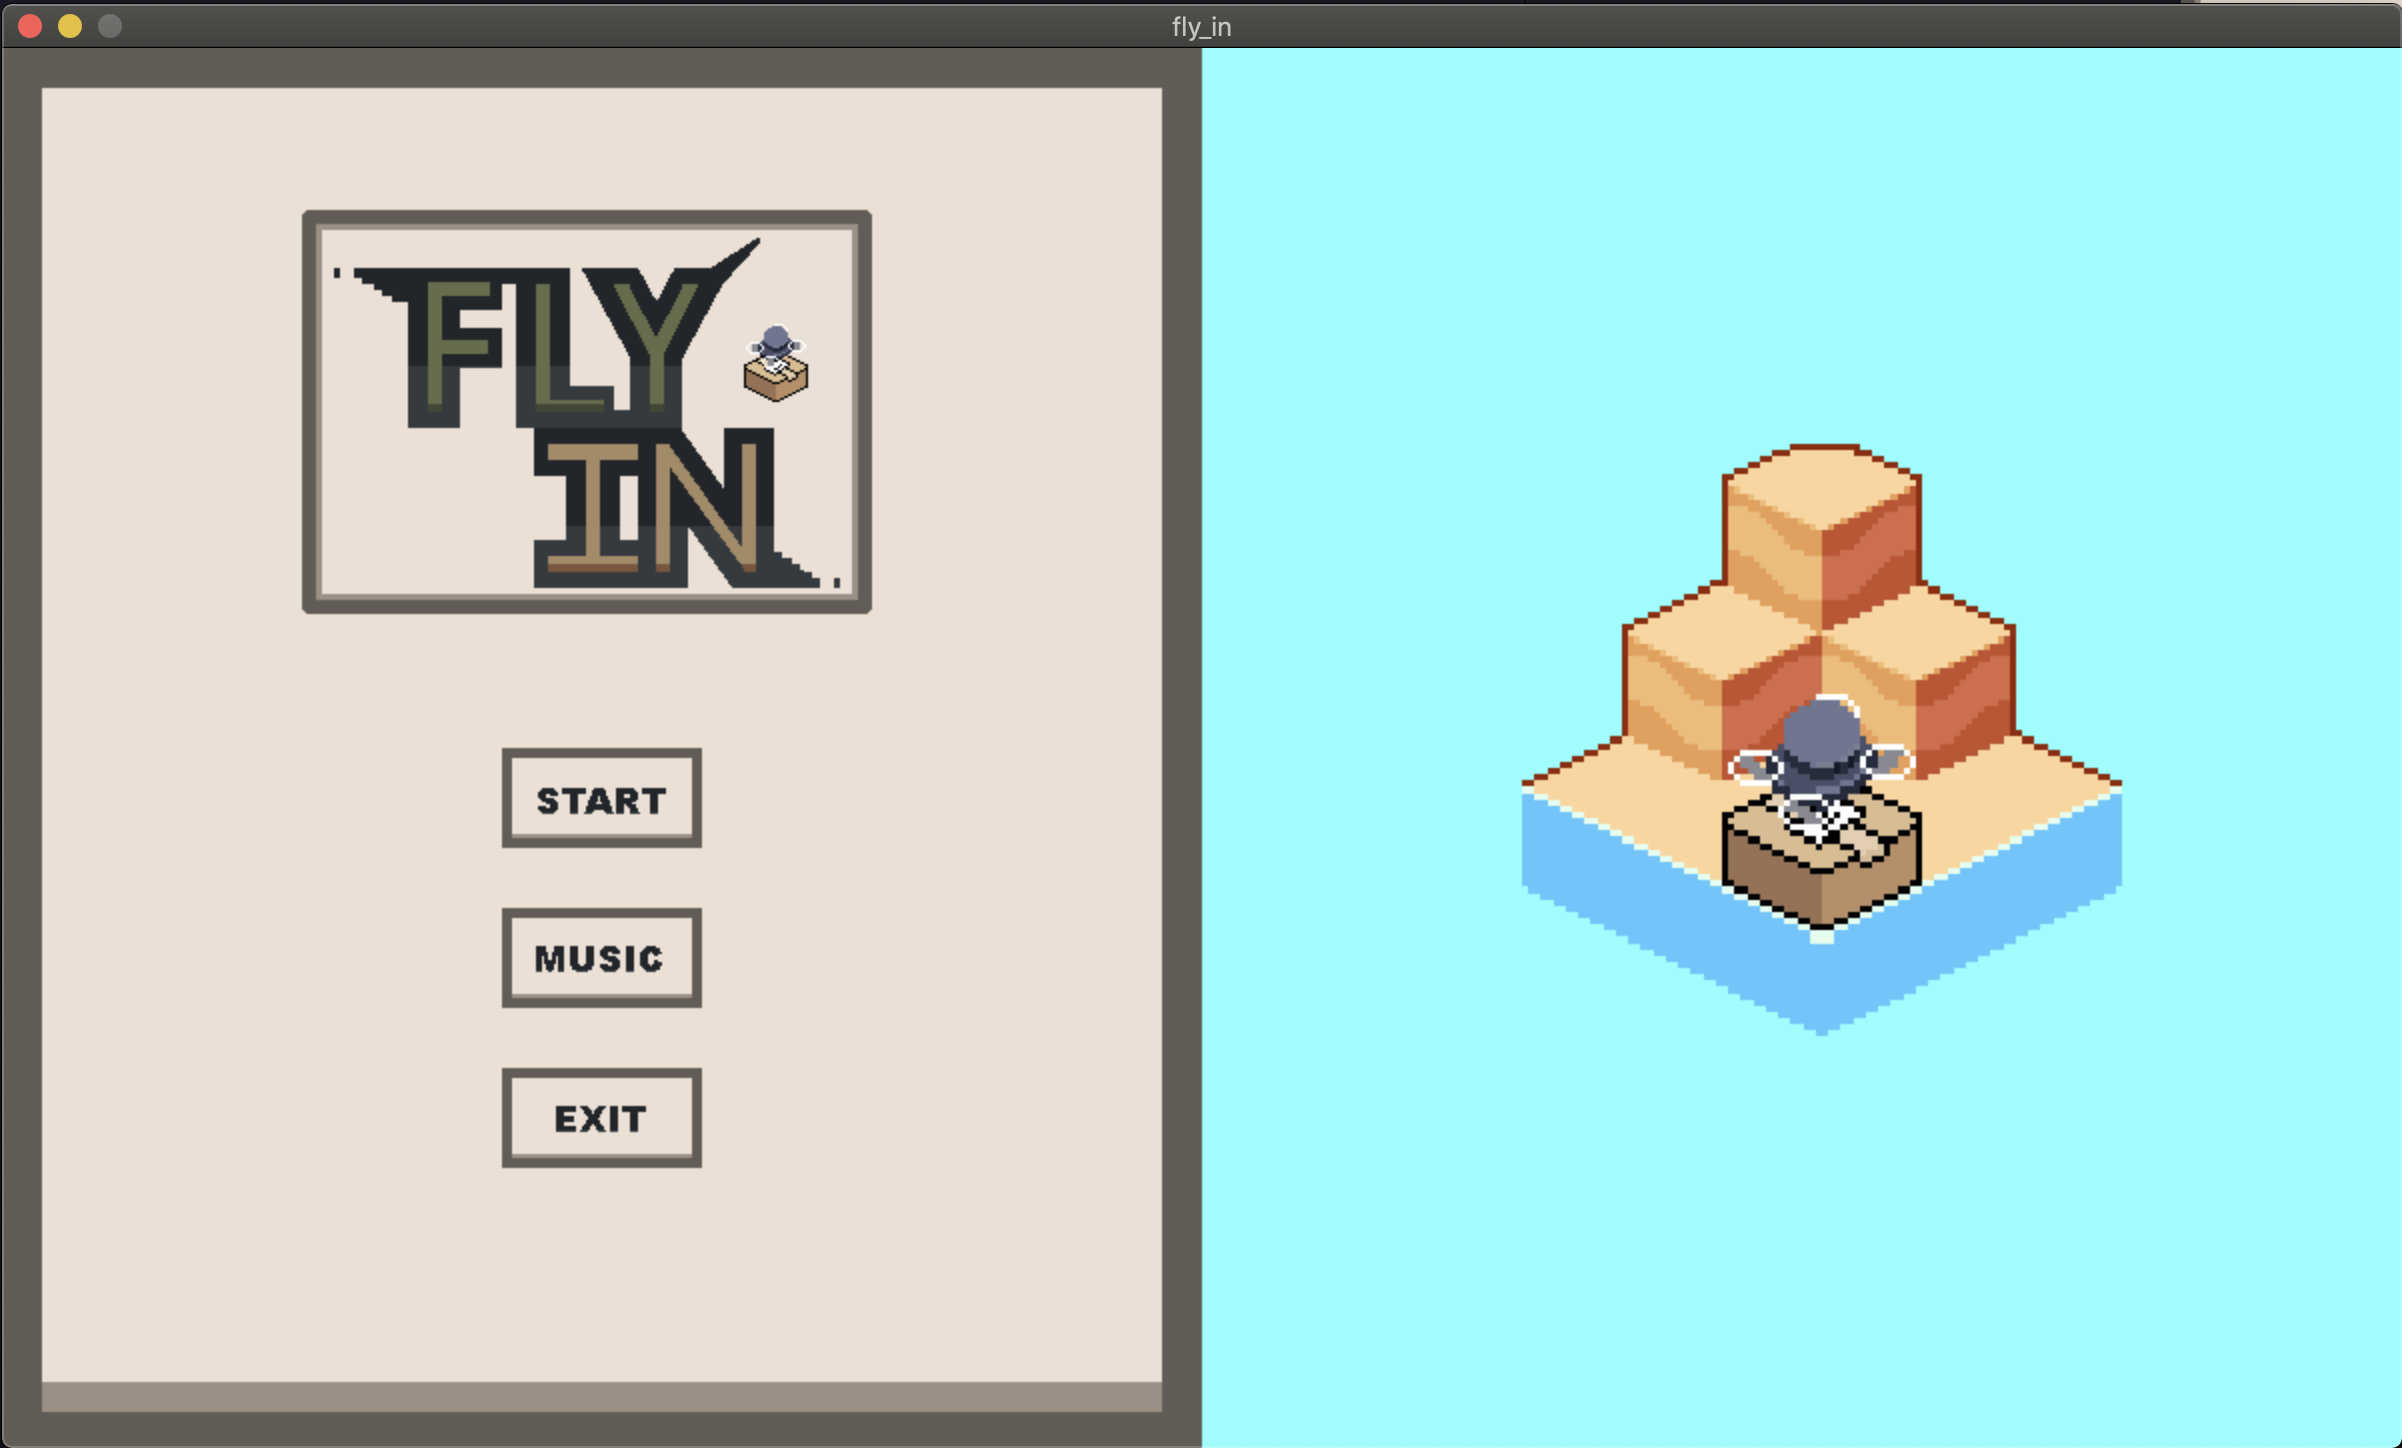
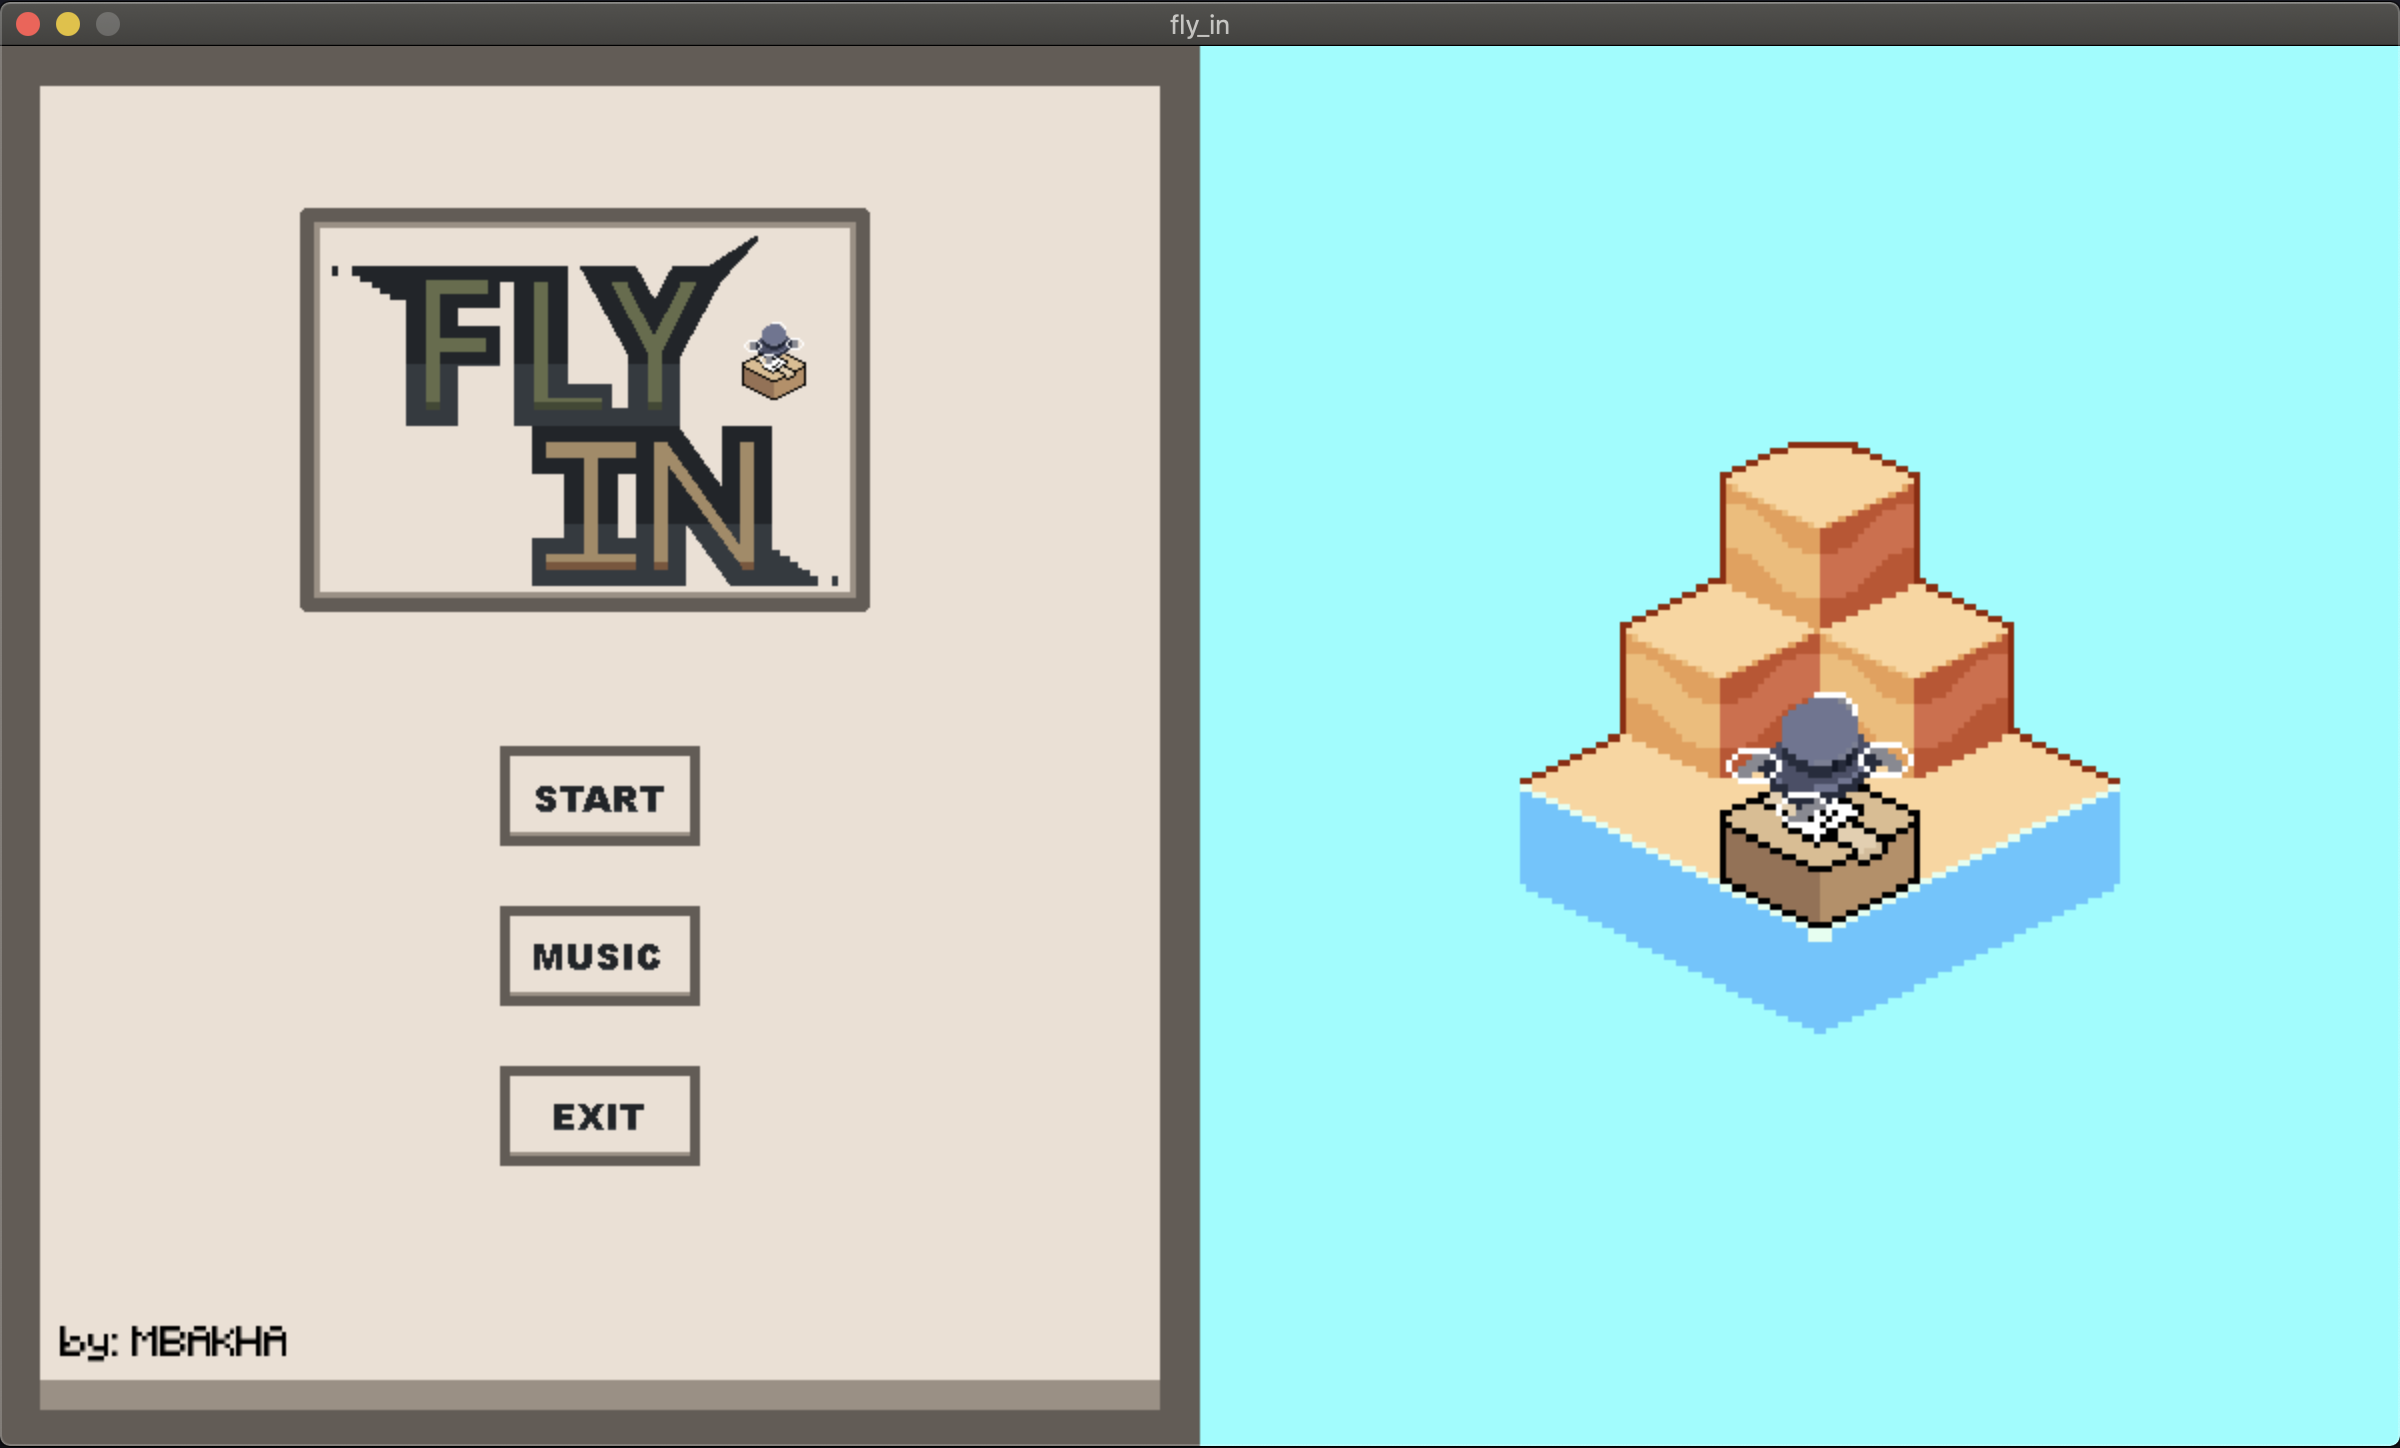
readme

diff --git a/Script/Visualization.py b/Script/Visualization.py
@@ -31,7 +31,7 @@ class Main_Menu:
     def __draw_text(text: str, size: int, color: str) -> pygame.Surface:
         font = pygame.font.Font("assets/font/Minecraft.ttf", size)
         r, g, b = rgb(color)
-        result = font.render(text, True, (r, g, b), (0, 0, 0, 0))
+        result = font.render(text, True, (r, g, b))
         return result
 
     def error(self, text: str) -> None:
@@ -66,6 +66,8 @@ class Main_Menu:
             self.start.blit(self.display)
             self.exit.blit(self.display)
             self.music.blit(self.display)
+            login = self.__draw_text("by: MBAKHA", 20, "black")
+            self.display.blit(login, (30, 640))
             image = self.drone.anim()
             image = pygame.transform.scale(image, (100, 100))
             self.display.blit(image, (860, 310))

diff --git a/README.md b/README.md
@@ -12,7 +12,13 @@
 
 <br>
 
+<div align="center">
+
 ## Table of Contents
+
+<br>
+
+<div align="left">
 
 - [Description](#description)
 - [Features](#features)
@@ -25,11 +31,14 @@
 
 <br>
 
----
-
+<div align="center">
 
 ## Description
+![description](https://media.tenor.com/_V8TTKAXYB0AAAAM/spongebob-squarepants-sunglasses.gif)
 
+<div align="left">
+
+<br>
 
 **fly-in** is an interactive drone traffic management and pathfinding visualization system. The project simulates complex logistics scenarios where multiple drones must navigate through interconnected hubs (nodes) with capacity constraints, restricted zones, and priority pathways. It combines graph-based pathfinding algorithms with real-time visualization to demonstrate efficient resource allocation and congestion management in constrained environments.
 
@@ -40,10 +49,18 @@ The core goal is to route drones from a start hub to a goal hub while respecting
 
 ---
 
+<div align="center">
+
 ## Features
 
+![features](https://media.tenor.com/y438NMTZ_F8AAAAM/awesome-feature-sh1n-boo.gif)
+
+<div align="left">
+
+<br>
+
 - **Visual Network Simulation**: Real-time pygame-based visualization of drone movement through a multi-hub network
-- **Intelligent Pathfinding**: A* and Dijkstra-inspired pathfinding with dynamic cost adjustments based on zone types and congestion
+- **Intelligent Pathfinding**: Dijkstra pathfinding with dynamic cost adjustments based on zone types and congestion
 - **Configuration-Driven Scenarios**: Define custom hub layout, drones numbers and connection between hubs
 - **Capacity Management**: Track and enforce capacity limits on both hubs and connections
 - **Zone-Based Routing**: Support for multiple zone types (normal, restricted, priority, blocked) with different traversal penalties
@@ -51,7 +68,15 @@ The core goal is to route drones from a start hub to a goal hub while respecting
 
 ---
 
+<div align="center">
+
 ## Instructions
+
+![instructions](https://media.tenor.com/OTDgkmLi8HsAAAAM/instructions.gif)
+
+<div align="left">
+
+<br>
 
 ### Compilation & Installation
 
@@ -112,11 +137,18 @@ make clean
 
 ---
 
+<div align="center">
+
 ## Algorithm & Implementation Strategy
+
+<br>
+<div align="left">
 
 ### Pathfinding Algorithm
 
-The project employs a **dynamic A*-inspired pathfinding** algorithm with zone-aware cost functions:
+The project employs a **Dijkstra pathfinding** algorithm with zone-aware cost functions:
+
+![Dijkstra](https://miro.medium.com/v2/resize:fit:1400/1*3aibaGt1-zimnwreliwX0A.gif)
 
 1. **Cost Calculation Per Zone**:
    - `normal` zone: 2 costs (baseline cost)
@@ -162,7 +194,12 @@ The project employs a **dynamic A*-inspired pathfinding** algorithm with zone-aw
 
 ---
 
+<div align="center">
+
 ## Visual Representation & User Experience
+
+<br>
+<div align="left">
 
 ### Rendering System
 
@@ -227,7 +264,13 @@ The project employs a **dynamic A*-inspired pathfinding** algorithm with zone-aw
 
 ---
 
+
+<div align="center">
+
 ## Configuration File Format
+
+<br>
+<div align="left">
 
 Define your drone network and constraints in a `.txt` configuration file:
 
@@ -253,30 +296,43 @@ connection: <hub1>-<hub2> [max_link_capacity=<int>]
 
 ---
 
+<div align="center">
+
 ## Resources
+![resources](https://media.tenor.com/USPVkGoH-KkAAAAM/jungle-wood-smash.gif)
+
+<br>
+<div align="left">
 
 ### Documentation & References
 
 **Aseprite** — pixel art tool used for assets
-<img src="assets/readme/Aseprite.png" alt="Aseprite" width="40" align="left">
+<img src="assets/readme/Aseprite.png" alt="Aseprite" width="30" align="left">
+
+<br>
+
 [github.com/aseprite/aseprite](https://github.com/aseprite/aseprite)
 
-<br><br>
+<br>
 
 **Assets**
-<img src="assets/readme/itch_icon.png" alt="itch.io" width="40" align="left">
+<img src="assets/readme/itch_icon.png" alt="itch.io" width="35" align="left">
+
+<br>
 
 - Ground tiles: [SC Farm Pack](https://aibyzz.itch.io/sc-farm-pack)
 - Cards: [Modular Fantasy Cards Asset Pack](https://lyniadesign.itch.io/modular-fantasy-cards-asset-pack)
 
-<br><br>
-
 **Music**
-<img src="assets/readme/Sonic_Unleashed_logo.png" alt="Sonic Unleashed" width="40" align="left">
+
+
+<img src="assets/readme/balatro_icon.png" alt="Balatro" width="40" align="left">
 
 - Main menu: [Sonic Unleashed theme](https://www.youtube.com/watch?v=tRPrh5C8pdo&list=RDtRPrh5C8pdo&start_radio=1)
 
-<img src="assets/readme/balatro_icon.png" alt="Balatro" width="40" align="left">
+<br>
+
+<img src="assets/readme/Sonic_Unleashed_logo.png" alt="Sonic Unleashed" width="40" align="left">
 
 - In-game: [Balatro track](https://www.youtube.com/watch?v=2b8TKhIz_ZY)
 
@@ -289,7 +345,12 @@ AI was consulted for Understanding how pygame works
 
 ---
 
+<div align="center">
+
 ## Project Structure
+
+<br>
+<div align="left">
 
 ```
 fly-in/
@@ -305,6 +366,7 @@ fly-in/
 │   ├── Drone/              # Drone animation frames
 │   ├── main_menu/          # Menu UI images
 │   ├── font/               # Minecraft.ttf
+│   └── readme/             # For this file
 │   └── sounds/             # Background music and SFX
 ├── config.txt              # Example configuration
 ├── requirements.txt        # Python dependencies
